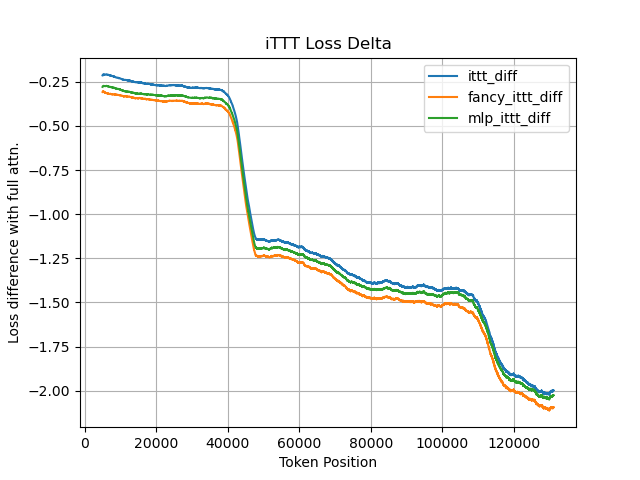
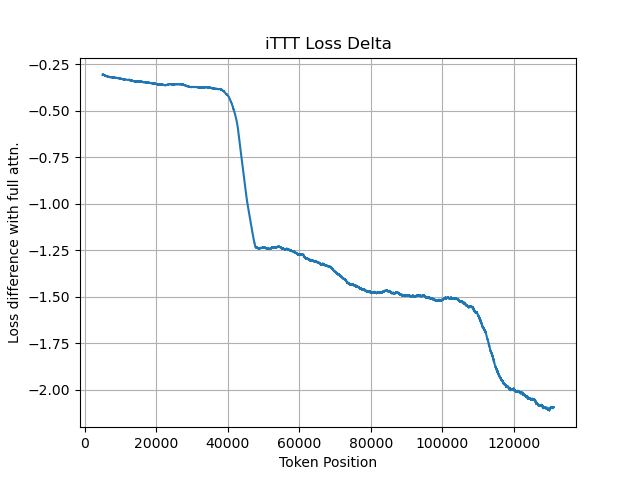
lhliuh

diff --git a/src/compare_ittt.py b/src/compare_ittt.py
@@ -144,16 +144,18 @@ def nan_mean(x):
 def analyze_results():
 
     lm_losses = torch.load(os.path.join(constants.LOCAL_DATA_PATH, "theta_"+PREFIX+"lm_losses_for_comparison.pt")).float().numpy()
-    ittt_losses = torch.load(os.path.join(constants.LOCAL_DATA_PATH, PREFIX+"ittt_losses_for_comparison.pt")).float().numpy()
+    # ittt_losses = torch.load(os.path.join(constants.LOCAL_DATA_PATH, PREFIX+"ittt_losses_for_comparison.pt")).float().numpy()
     # norm_ittt_losses = torch.load(os.path.join(constants.LOCAL_DATA_PATH, "norm_"+PREFIX+"ittt_losses_for_comparison.pt")).float().numpy()
     fancy_ittt_losses = torch.load(os.path.join(constants.LOCAL_DATA_PATH, "fancy_"+PREFIX+"ittt_losses_for_comparison.pt")).float().numpy()
-    mlp_ittt_losses = torch.load(os.path.join(constants.LOCAL_DATA_PATH, "mlp_"+PREFIX+"ittt_losses_for_comparison.pt")).float().numpy()
+    # mlp_ittt_losses = torch.load(os.path.join(constants.LOCAL_DATA_PATH, "mlp_"+PREFIX+"ittt_losses_for_comparison.pt")).float().numpy()
+
+    fig, ax = plt.subplots(1, 2, figsize=(12,5))
 
     df = pd.DataFrame({
-        "lm_loss": nan_mean(lm_losses),
-        "ittt_loss": nan_mean(ittt_losses),
-        "fancy_ittt_loss": nan_mean(fancy_ittt_losses),
-        "mlp_ittt_loss": nan_mean(mlp_ittt_losses),
+        "lm_loss": nan_mean(lm_losses)[:128*1024],
+        "ittt_loss": nan_mean(fancy_ittt_losses)[:128*1024],
+        # "fancy_ittt_loss": nan_mean(fancy_ittt_losses),
+        # "mlp_ittt_loss": nan_mean(mlp_ittt_losses),
     })
 
     print("\n === Average Losses === ")
@@ -164,29 +166,29 @@ def analyze_results():
     for col in df.columns:
 
         x = np.arange(len(df[col]))
-        y_running = df[col].rolling(window=5000)
+        y_running = df[col].rolling(window=5000, min_periods=1000)
         
-        plt.plot(x, y_running.mean(), label=col)
+        ax[0].plot(x, y_running.mean(), label=col)
     
-    plt.legend()
-    plt.grid()
+    ax[0].legend()
+    ax[0].grid()
 
-    plt.title("iTTT Loss Comparison")
-    plt.xlabel("Token Position")
-    plt.ylabel("Loss (log perplexity)")
-    plt.ylim(3, 4)
+    ax[0].set_title("Loss by Token Position")
+    ax[0].set_xlabel("Token Position")
+    ax[0].set_ylabel("Loss (log perplexity)")
+    # ax[0].set_ylim(3.0, 5.5)
 
-    plt.savefig(PREFIX+"loss_comparison.png")
-    plt.clf()
+    # plt.savefig(PREFIX+"loss_comparison.png")
+    # plt.clf()
     
-    diff = ittt_losses - lm_losses
-    fancy_diff = fancy_ittt_losses - lm_losses
-    mlp_diff = mlp_ittt_losses - lm_losses
+    diff = fancy_ittt_losses - lm_losses
+    # fancy_diff = fancy_ittt_losses - lm_losses
+    # mlp_diff = mlp_ittt_losses - lm_losses
 
     df = pd.DataFrame({
-        "ittt_diff": nan_mean(diff),
-        "fancy_ittt_diff": nan_mean(fancy_diff),
-        "mlp_ittt_diff": nan_mean(mlp_diff),
+        "ittt_diff": nan_mean(diff)[:128*1024],
+        # "fancy_ittt_diff": nan_mean(fancy_diff),
+        # "mlp_ittt_diff": nan_mean(mlp_diff),
     })
 
     for col in df.columns:
@@ -194,16 +196,18 @@ def analyze_results():
         x = np.arange(len(df[col]))
         y_running = df[col].rolling(window=5000)
         
-        plt.plot(x, y_running.mean(), label=col)
+        ax[1].plot(x, y_running.mean(), label=col)
     
-    plt.legend()
+    # plt.legend()
     plt.grid()
 
-    plt.title("iTTT Loss Delta")
-    plt.xlabel("Token Position")
-    plt.ylabel("Loss difference with full attn.")
+    ax[1].set_title("Loss Delta by Token Position")
+    ax[1].set_xlabel("Token Position")
+    ax[1].set_ylabel("Loss difference with full attn.")
 
-    plt.savefig(PREFIX+"loss_diff_comparison.png")
+    plt.suptitle("Comparison at 128K Context Length")
+    plt.tight_layout()
+    plt.savefig("128K_comparison.png", dpi=300)
 
 
 if __name__ == "__main__":

diff --git a/src/plot_loss.py b/src/plot_loss.py
@@ -1,0 +1,41 @@
+import numpy as np
+import matplotlib.pyplot as plt
+import pandas as pd
+
+
+FILE = "losses.csv"
+
+RUNS = {
+    "fancy-momentum-1b": "iTTT",
+    "attn-baseline-theta-1b": "Dense Attn"
+}
+
+
+def main():
+    
+    df = pd.read_csv(FILE)
+
+    for name, label in RUNS.items():
+        data = list(df[f"{name} - loss"].dropna())
+
+        if "attn" in label.lower():
+            roll = pd.DataFrame({"k": data}).rolling(100).mean()
+            x = (np.arange(len(roll["k"])) + 100) * 32 * (1024 * 32)
+        else:
+            roll = pd.DataFrame({"k": data}).rolling(25).mean()
+            x = (np.arange(len(roll["k"])) + 25) * 128 * (1024 * 32)
+
+        plt.plot(x, roll, label=label)
+    
+    plt.xlabel("Tokens Seen")
+    plt.ylabel("Training Loss")
+    plt.legend()
+    plt.grid()
+    plt.ylim(1.8, 3.0)
+    plt.title("Training Loss Over Tokens Seen")
+    plt.tight_layout()
+    plt.savefig("training_loss.png")
+    
+
+if __name__ == "__main__":
+    main()
